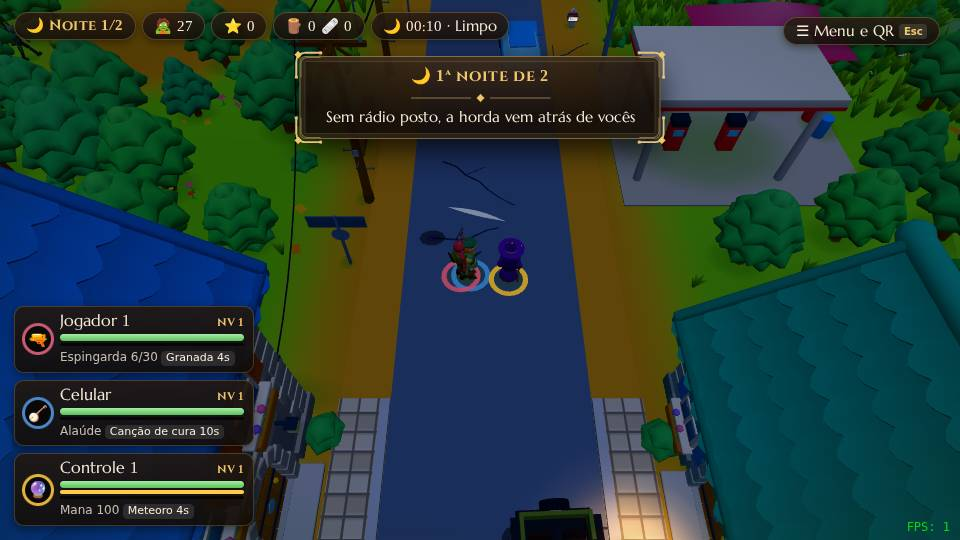
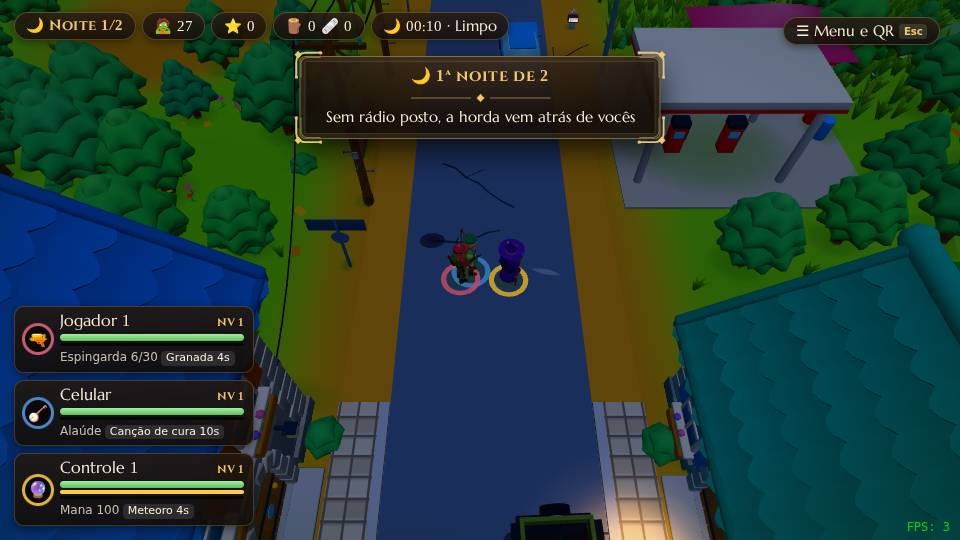
Zumbi pula a janela com o corpo passando pelo vão
Antes sumia de fora e aparecia dentro. Agora apoia no parapeito, mergulha e cai dentro (o mesmo
1,5 s); golpe forte no meio do pulo derruba do lado em que estava. Replay atualizado de propósito.

diff --git a/src/games/survivor/enemies/zombies.js b/src/games/survivor/enemies/zombies.js
@@ -41,6 +41,8 @@ const SPECIAL = {
 const _v = new THREE.Vector3()
 const rnd = (a, b) => a + Math.random() * (b - a)
 const sameLv = (a, b) => (a.lv || 0) === (b.lv || 0)
+const ease = (t) => { t = Math.min(1, Math.max(0, t)); return t * t * (3 - 2 * t) }
+const CLIMB_LEAN = 0.35 // pulando a janela: fração do tempo se apoiando no parapeito antes de passar
 
 // ctx: { scene, fx, gore, players (Map), hurt(p, dmg), hit(e, dmg, p, kx, kz), night(), loaded(x, z) (chunk carregado?),
 //        impact(x, z, tipo) (tremor/pausa), bash(e) (bate numa barricada encostada; true = bateu),
@@ -79,7 +81,7 @@ export function CreateHorde(ctx) {
       kind, screamT: 0, puff: 0, rushT: 0, radius: kind === 'brute' ? BR.radius : RADIUS,
       state: 'wander', stT: 0, dur: 0, target: null, seenT: 0, tx: x, tz: z, goal: null, waitT: rnd(0, 3),
       senseT: Math.random() * 0.3, cool: 0.5, biteT: 0, bite: 0, hitT: 0, imp: 0, dying: 0, fallDir: -1,
-      kx: 0, kz: 0, slowT: 0, freezeT: 0, waveAt: -99, path: null, pathT: 0, unstick: 0, stuckT: 0, sx: x, sz: z, moving: 0, t: Math.random() * 10, siege: false,
+      kx: 0, kz: 0, slowT: 0, freezeT: 0, waveAt: -99, climb: null, vault: 0, path: null, pathT: 0, unstick: 0, stuckT: 0, sx: x, sz: z, moving: 0, t: Math.random() * 10, siege: false,
     })
     if (e.ice) e.ice.visible = false
     e.rig.restore() // reaproveitado: volta inteiro
@@ -323,6 +325,27 @@ export function CreateHorde(ctx) {
     e.t += dt; e.stT += dt
     e.hitT = Math.max(0, e.hitT - dt)
     e.bite = Math.max(0, e.bite - dt * 4)
+    // pulando a janela (barricades.js marca e.climb): o corpo atravessa o vão sem colisão — apoia no parapeito e mergulha para dentro.
+    // Golpe forte no meio do pulo (tropeçou, caiu, morreu): termina do lado em que estava
+    if (e.climb) {
+      const c = e.climb
+      c.t += dt
+      if (e.imp > 0) react(e)
+      const k = Math.min(1, c.t / c.time), a = ease(k / CLIMB_LEAN), m = ease((k - CLIMB_LEAN) / (1 - CLIMB_LEAN)), live = e.state === 'chase' || e.state === 'investigate'
+      if (live && k < 1) {
+        // 1º encosta no parapeito (a), depois passa para dentro (m)
+        const ax = c.x0 + (c.xm - c.x0) * a, az = c.z0 + (c.zm - c.z0) * a
+        e.x = ax + (c.x1 - ax) * m; e.z = az + (c.z1 - az) * m; e.fy = c.y0 + (c.y1 - c.y0) * m
+        e.lx = e.x; e.lz = e.z; e.vault = k; e.vel = 0; e.moving = 0; e.kx = e.kz = 0
+        e.group.position.set(e.x, e.fy, e.z)
+        e.group.rotation.y = e.heading
+        return false
+      }
+      const inn = live || m > 0.5
+      Object.assign(e, inn ? { x: c.x1, z: c.z1, fy: c.y1 } : { x: c.x0, z: c.z0, fy: c.y0 }, { lv: 0, vault: 0, climb: null, kx: 0, kz: 0, ent: null, entT: 0.6 })
+      e.lx = e.x; e.lz = e.z
+      if (inn) sfx('bodyfall', { x: e.x, z: e.z })
+    }
     if (e.state === 'dead') {
       e.dying -= dt
       e.vel = 0

diff --git a/src/games/survivor/barricades.js b/src/games/survivor/barricades.js
@@ -8,7 +8,7 @@ import { has } from './levels'
 // - De dentro da casa, perto de uma entrada, Usar prega tábuas do estoque do grupo: barricar, consertar, reforçar.
 // - Porta barricada só segura zumbis (gente e tiro passam pela fresta); zumbi encostado bate até quebrar.
 // - Janela: zumbi atrás de alguém lá dentro vai pela janela se ela for mais perto que a porta; bate na barricada (se houver),
-//   quebra o vidro e pula para dentro (leva alguns segundos). Janela quebrada continua quebrada.
+//   quebra o vidro e pula para dentro (leva alguns segundos, com o corpo passando pelo vão). Janela quebrada continua quebrada.
 // Estado por entrada (id = posição): continua lá quando o chunk sai e volta. Números em balance.js · barricade, window.
 const B = BALANCE.barricade, W = BALANCE.window, Z = BALANCE.zombies
 const COST = { build: B.build.planks, repair: B.repair.planks, reinforce: B.reinforce.planks }
@@ -182,7 +182,6 @@ export function CreateBarricades({ scene, fx, inv, say, sfx, tasks, impact, xp =
     let wn = wins.get(en.id)
     if (!wn) wins.set(en.id, (wn = { id: en.id, glass: W.glass, broken: false, en, hole: null, b: null }))
     if (bar || !wn.broken) {
-      e.climbT = 0
       if ((e.winT = (e.winT || 0) - dt) > 0) return HOLD
       e.winT = rnd(Z.bash.every[0], Z.bash.every[1])
       if (bar) { hit(bar, force(e)); return HOLD }
@@ -196,11 +195,12 @@ export function CreateBarricades({ scene, fx, inv, say, sfx, tasks, impact, xp =
       }
       return HOLD
     }
-    // janela aberta: pula para dentro
-    if ((e.climbT = (e.climbT || 0) + dt) < W.climb) return HOLD
-    const i = usable.get(en.id) || inside(en)
-    Object.assign(e, { x: i.x, z: i.z, lx: i.x, lz: i.z, lv: 0, climbT: 0, ent: null, entT: 0.6 })
-    sfx('bodyfall', { x: i.x, z: i.z })
+    // janela aberta: pula para dentro. A horda leva o corpo pelo vão (e.climb): apoia no parapeito, sobe e mergulha
+    if (!e.climb) {
+      const i = usable.get(en.id) || inside(en), fl = FloorAt(i.x, i.z, en.y)
+      e.climb = { x0: e.x, z0: e.z, y0: e.fy ?? en.y, xm: en.x + en.ox * 0.45, zm: en.z + en.oz * 0.45, x1: i.x, z1: i.z, y1: fl ? fl.y : en.y, t: 0, time: W.climb } // de onde está → encostado no parapeito → lá dentro
+      e.ent = null; e.entT = W.climb + 0.6
+    }
     return HOLD
   }
 
@@ -253,7 +253,7 @@ export function CreateBarricades({ scene, fx, inv, say, sfx, tasks, impact, xp =
       const en = e.ent
       if (!en) return null
       const o = outside(en)
-      if (Math.hypot(o.x - e.x, o.z - e.z) > 0.55) { e.climbT = 0; return o }
+      if (Math.hypot(o.x - e.x, o.z - e.z) > 0.55) return o
       return atWindow(e, en, dt)
     },
     update(dt) {

diff --git a/src/shared/creatures/zombie-model.js b/src/shared/creatures/zombie-model.js
@@ -225,10 +225,12 @@ export function CreateZombieModel(v = 0) {
     }
 
     // ---- queda: de costas (empurrado de frente) ou de bruços ----
-    body.rotation.x = (e.fallDir || -1) * fall * Math.PI / 2
-    body.position.y = 0.14 * fall
-    // pés no chão: mancar/abaixar o quadril não enterra o sapato (deitado ou ajoelhado comendo fica como está)
-    const plant = (1 - fall) * (1 - crouchW)
+    // ---- pulando uma janela (e.vault 0..1): sobe no parapeito, o corpo deita para a frente e mergulha para dentro ----
+    const hop = Math.sin((e.vault || 0) * Math.PI)
+    body.rotation.x = (e.fallDir || -1) * fall * Math.PI / 2 + hop * 1.15
+    body.position.y = 0.14 * fall + hop * 0.8
+    // pés no chão: mancar/abaixar o quadril não enterra o sapato (deitado, ajoelhado comendo ou no ar fica como está)
+    const plant = (1 - fall) * (1 - crouchW) * (1 - hop)
     if (plant > 0.01) { root.updateMatrixWorld(true); hips.position.y += SoleDepth(root, knees) * plant }
   }
 

diff --git a/README.md b/README.md
@@ -78,7 +78,7 @@ Móveis com gaveta (cômoda, baú, guarda-roupa, estante, fogão, balcão, caixo
 De **dentro** de uma casa, perto da porta, **Usar** prega tábuas do estoque do grupo: **Barricar** (2 🪵), depois **Consertar** (1 🪵) quando apanhar e **Reforçar** (2 🪵, vida em dobro). O martelo faz barulho. A barricada **só segura zumbis**: gente e tiro passam pela fresta. Zumbi encostado bate até quebrar; as tábuas caem e uma barrinha sobre a porta mostra a vida (verde → amarelo → vermelho). Números em `balance.js`, seção `barricade` (e `zombies.bash`).
 
 ## Janelas e rádio (base)
-As **janelas do térreo** também são entradas: zumbi atrás de alguém dentro de uma casa vai pela janela se ela estiver mais perto que a porta — bate na barricada (se houver), **quebra o vidro** e **pula para dentro** (leva 1,5 s; dá tempo de acertar), caindo logo depois da parede e seguindo atrás de vocês. Janela quebrada fica quebrada. Janela aceita barricada como a porta (Usar perto dela, por dentro). **Rádio:** dentro de uma casa, num lugar livre, Usar → "📻 Pôr rádio": essa casa vira a **base** (📻 no placar, anel verde pulsando). Usar perto dele pega de volta. À noite o cerco vai atrás da base. Números em `balance.js`, seções `window` e `radio`.
+As **janelas do térreo** também são entradas: zumbi atrás de alguém dentro de uma casa vai pela janela se ela estiver mais perto que a porta — bate na barricada (se houver), **quebra o vidro** e **pula para dentro** (leva 1,5 s, com o corpo passando pelo vão: apoia no parapeito e mergulha; dá tempo de acertar, e um golpe forte derruba ele do lado em que estava), caindo logo depois da parede e seguindo atrás de vocês. Janela quebrada fica quebrada. Janela aceita barricada como a porta (Usar perto dela, por dentro). **Rádio:** dentro de uma casa, num lugar livre, Usar → "📻 Pôr rádio": essa casa vira a **base** (📻 no placar, anel verde pulsando). Usar perto dele pega de volta. À noite o cerco vai atrás da base. Números em `balance.js`, seções `window` e `radio`.
 
 ## O cerco (a partida)
 A partida começa ao **meio-dia do dia 1** e o rádio avisa: o exército chega no **amanhecer do 3º dia** — aguentem **2 noites**. Duas horas antes de escurecer o rádio lembra de barricar. À noite o placar mostra "🌙 Noite 1/2" e o **diretor da noite** manda a horda contra a base (a casa do rádio): 2 **picos** por noite (perto das 21h e das 2h, "🧟 pico!"), com zumbis a mais nascendo a 40–50 m da base, fora da vista; a 2ª noite é mais forte. Sem rádio posto, a horda vem atrás de vocês, como de dia. **Vitória** no amanhecer do 3º dia; **derrota** se todos caírem ao mesmo tempo. Uma tela de resultado mostra noites, tempo, abates, pontos, barricadas, janelas quebradas e o estoque, e depois volta ao menu. Código em `src/games/survivor/siege.js`; números em `balance.js`, seção `siege`.

diff --git a/docs/TESTE-MANUAL.md b/docs/TESTE-MANUAL.md
@@ -48,6 +48,7 @@ Você precisa de **1 celular** e do teclado do PC. Para o item 12 (4 jogadores),
 | 34 | **Zumbis não ficam presos**: ponha o rádio numa casa perto da largada e espere a 1ª noite (N adianta a hora) | A horda chega à base pela porta e pelas janelas. Nenhum zumbi fica girando na porta de outra casa nem parado na beira do lago perto do posto | |
 | 35 | **Pular em móveis**: dentro de uma casa, corra e pule em cima de fogão, cômoda, barril ou sofá encostados na parede | O boneco passa por cima ou desce ao lado do móvel, sempre **dentro da casa**. Nunca aparece do lado de fora | |
 | 36 | **Chuva lava o sangue**: mate alguns zumbis na rua e um dentro de casa; aperte K até chover (🌧 ou ⛈ no relógio) | Na rua as manchas encolhem e somem em cerca de 1 minuto de chuva (30 s na tempestade). Dentro de casa continuam. Sem chuva, nada some | |
+| 37 | **Zumbi pula a janela**: fique dentro de uma casa, perto de uma janela sem móvel na frente, e deixe um zumbi vir de fora | Ele quebra o vidro, se apoia no parapeito, mergulha pelo vão e cai dentro (1,5 s). Não "aparece" mais dentro. Um golpe forte no meio do pulo derruba ele do lado em que estava | |
 
 Para testar outra classe pelo teclado: Esc → Voltar ao menu inicial (jogando sozinho volta na hora) → no menu, aperte A ou D → Enter.
 
